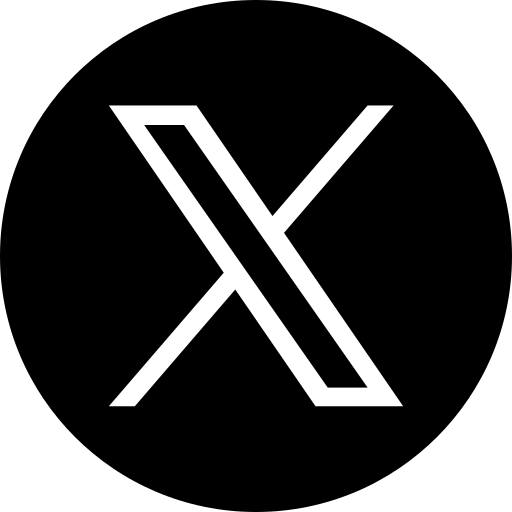
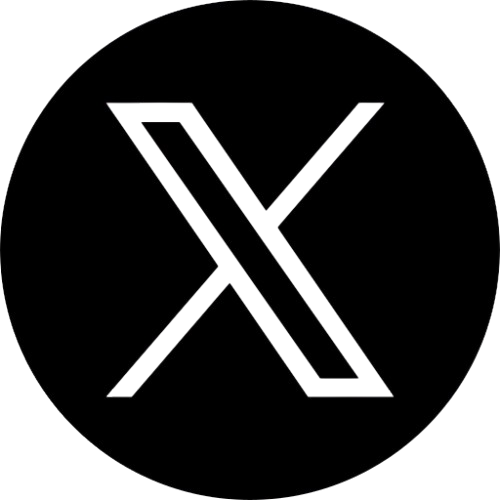
feat index

diff --git a/html/index.html b/html/index.html
@@ -60,7 +60,7 @@
         <section>
         <picture>
             <!-- Esto es la imagen principal-->
-            <img src="../img/euskalencounter-principal.jpg" width="1525vw">
+            <img class="principal" src="../img/euskalencounter-principal.jpg" width="2000px">
             <div class="contenedor">EUSKAL ENCOUNTER</div>
                 <div class="contenedor2">23 - 26 2026 BEC BILBAO</div>
                 <input type="button" class="boton" value="Ver resutados anteriores"/><br>
@@ -119,7 +119,7 @@
         <img src="../img/Instagram.png" width="50" height="30">
         <img src="../img/twitch.png" width="50" height="30">
         <img src="../img/YouTube.png" width="50" height="30">
-        <img src="../img/x.png" width="50" height="30">
+        <img src="../img/twitter.png" width="50" height="30">
         <img src="../img/Tiktok.png" width="50" height="30">
         <img src="../img/Facebook.png" width="50" height="30">
          <p></p>
